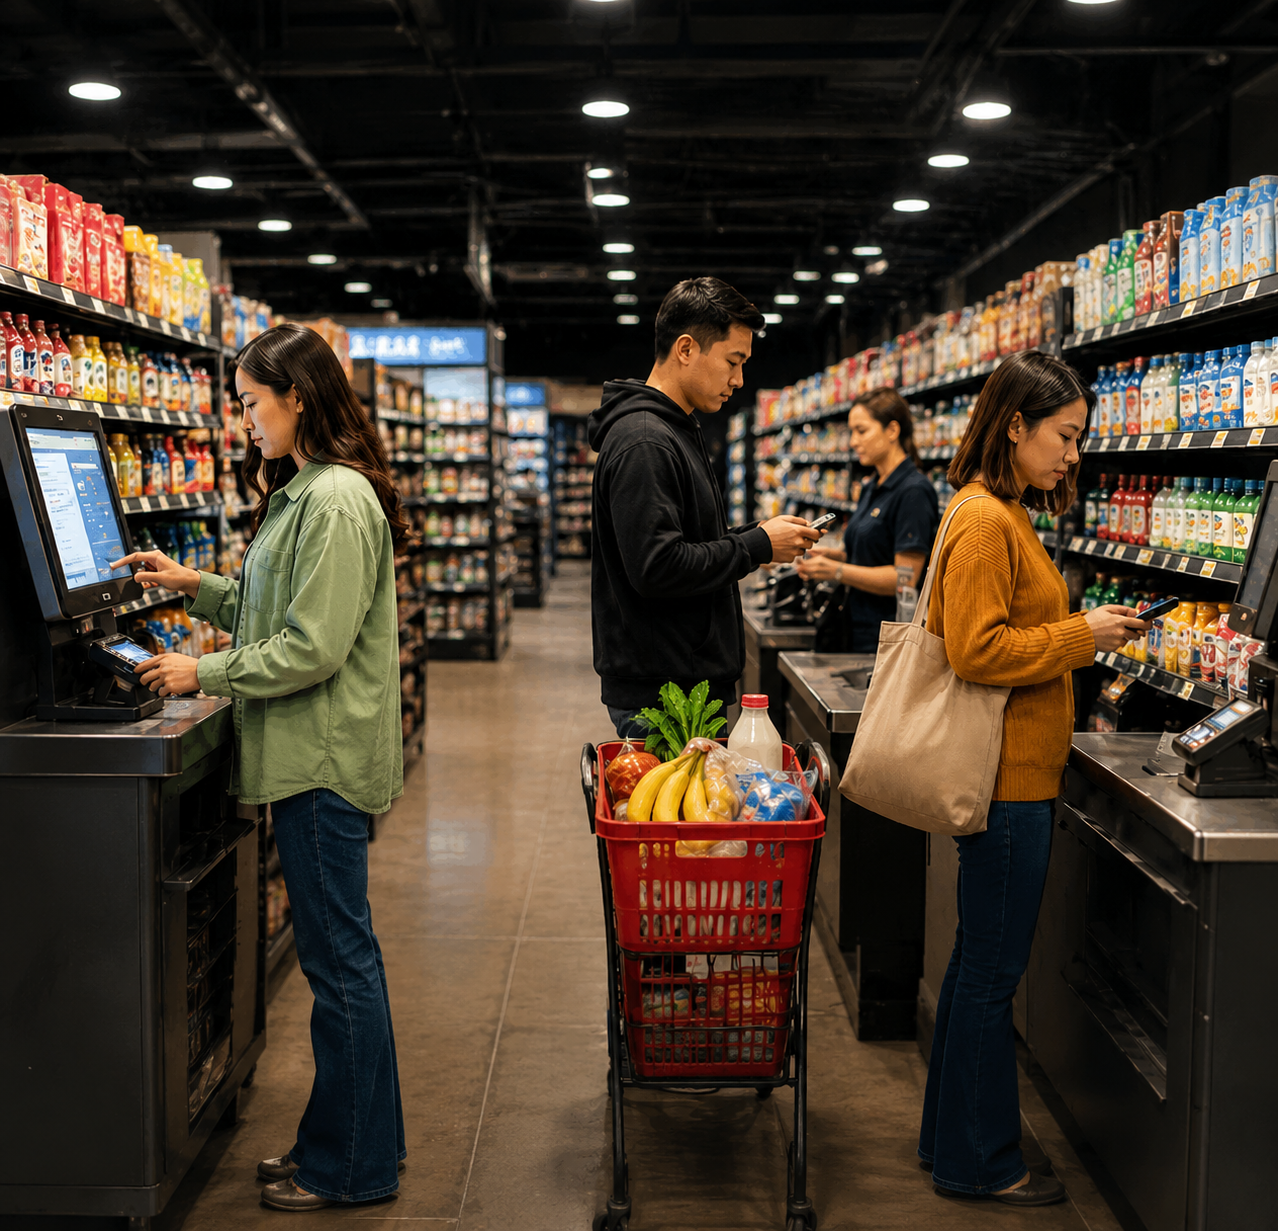
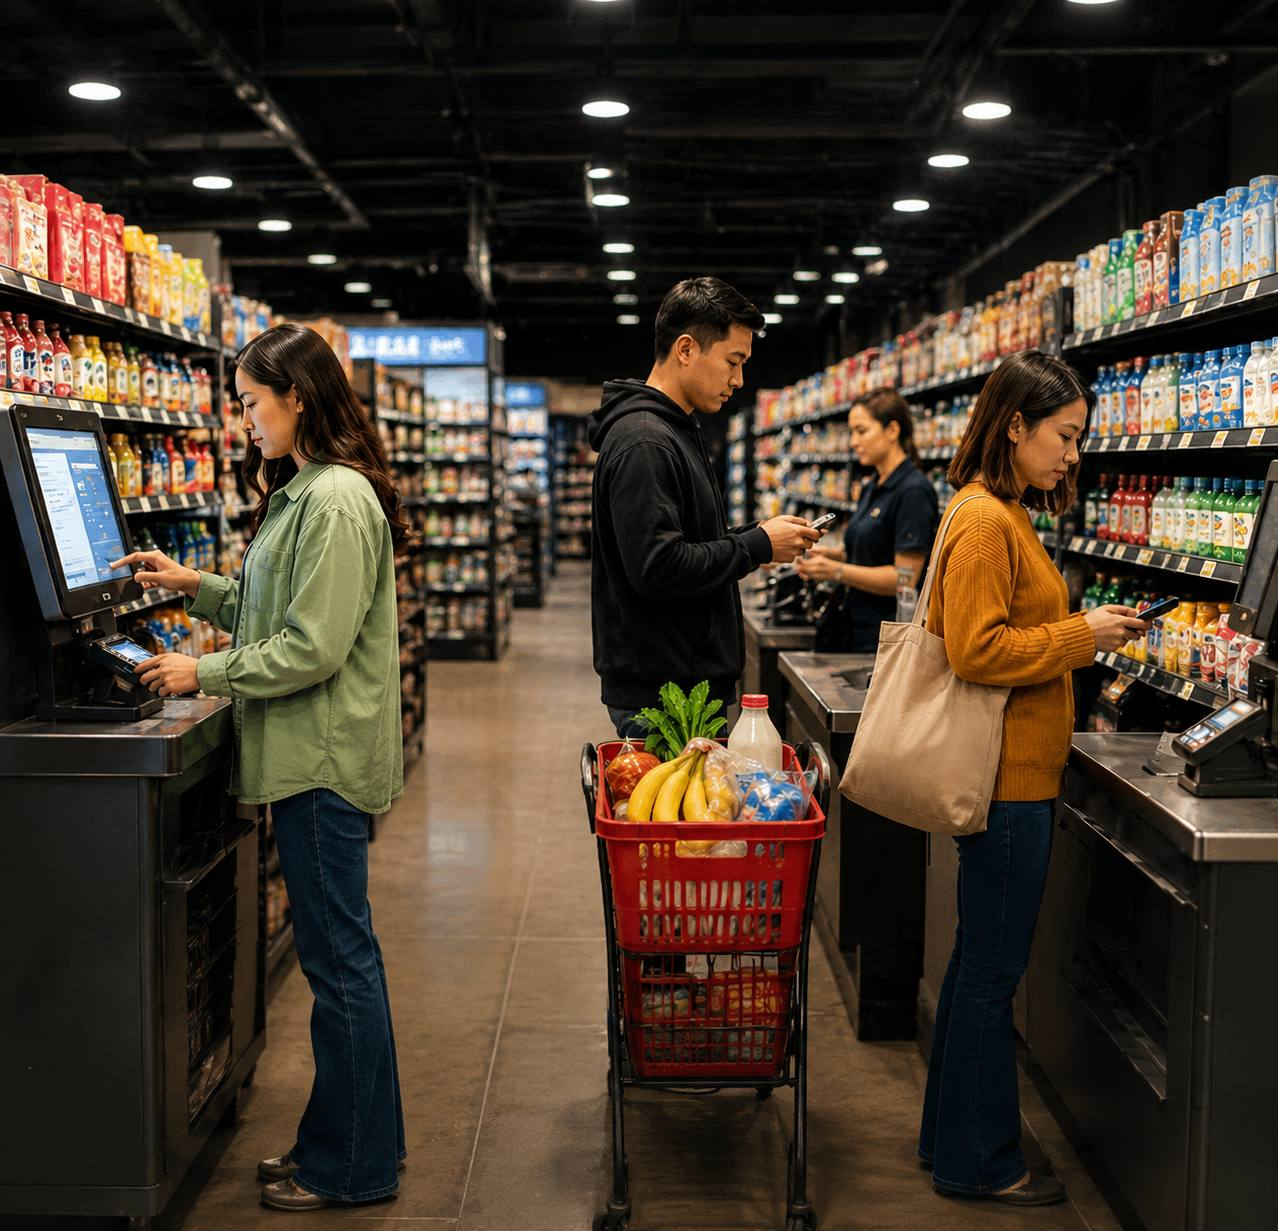
fix(leads): Sprint C — log rejected lead payloads + 11x smaller hero image
docs/33 Sprint C: a backend-rejected lead (429/422) logged only the status code
while the visitor saw the thank-you page — the prospect vanished unrecoverably;
now the full payload is logged for manual follow-up. hero-store.jpg recompressed
2.26 MB -> 190 KB (same dimensions, q72 progressive) — it is the mobile LCP on
Mongolian networks.

diff --git a/src/pages/api/lead.ts b/src/pages/api/lead.ts
@@ -62,7 +62,16 @@ export const POST: APIRoute = async ({ request, redirect, clientAddress }) => {
         body: JSON.stringify(payload),
       });
       if (!resp.ok) {
-        console.error("[lead] backend rejected:", resp.status);
+        // docs/33 Sprint C — a rejected lead (429 rate-limit, 422 validation)
+        // used to log only the status code while the visitor still saw
+        // "Баярлалаа": the prospect vanished unrecoverably. Log the FULL
+        // payload too, so a rejected lead can always be recovered from the
+        // server logs and followed up by hand.
+        console.error(
+          "[lead] backend rejected:",
+          resp.status,
+          JSON.stringify(payload),
+        );
       }
     } catch (e) {
       // Don't fail the user request if the backend is down — log so the lead
